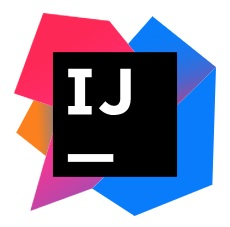
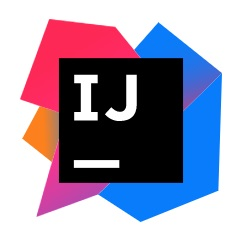
Deployed 5507704 with MkDocs version: 1.2.2

Changed region(s): [[0.0609, 0.0308, 0.9435, 0.9559], [0.4565, 0.2775, 0.5783, 0.5242]]

diff --git a/elementos/index.html b/elementos/index.html
@@ -526,7 +526,8 @@ Nosotros para el propósito de este curso usaremos Java 11.</p>
 <div class="highlight"><pre><span></span><code>java -version
 </code></pre></div></li>
 <li>Descargamos e instalamos <a href="https://www.jetbrains.com/idea/download/#section=windows">IntelliJ Community</a></li>
-<li>Una vez instalado hacemos click en crear nuevo proyecto.</li>
+<li>Una vez instalado hacemos click en crear nuevo proyecto.
+<img alt="IntelliJ" src="../img/intellij2.jpg" /></li>
 </ol>
                 
               
